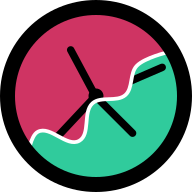
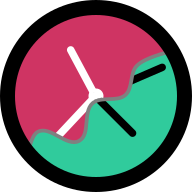
Updated to V1.3
- You can now click on a time to toggle between the localised version and the original text.
- Support for DST agnostic PT/ET was added (This will default to Standard or Daylight depending on DST)
- Support for abbreviated with additional fullstops (a.m. etc)
- Small change to the logo

Changed region(s): [[0.1562, 0.2188, 0.875, 0.75]]

diff --git a/localisetimes.js b/localisetimes.js
@@ -1,6 +1,6 @@
 "use strict";
 //PHP spat these timezone abbreviations out, and their offsets - There could be some missing
-const tzaolObj = {"GMT":0,"EAT":180,"CET":60,"WAT":60,"CAT":120,"EET":120,"WEST":60,"WET":0,"CEST":120,"SAST":120,"HDT":-540,"HST":-600,"AKDT":-480,"AKST":-540,"AST":-240,"EST":-300,"CDT":-300,"CST":-360,"MDT":-360,"MST":-420,"PDT":-420,"PST":-480,"EDT":-240,"ADT":-180,"NDT":-90,"NST":-150,"NZST":720,"NZDT":780,"EEST":180,"HKT":480,"WIB":420,"WIT":540,"IDT":180,"IST":120,"PKT":300,"WITA":480,"KST":510,"JST":540,"ACST":570,"ACDT":630,"AEST":600,"AEDT":660,"AWST":480,"BST":60,"MSK":180,"SST":-660,"UTC":0};
+const tzaolObj = {"GMT":0,"EAT":180,"CET":60,"WAT":60,"CAT":120,"EET":120,"WEST":60,"WET":0,"CEST":120,"SAST":120,"HDT":-540,"HST":-600,"AKDT":-480,"AKST":-540,"AST":-240,"EST":-300,"CDT":-300,"CST":-360,"MDT":-360,"MST":-420,"PDT":-420,"PST":-480,"EDT":-240,"ADT":-180,"NDT":-90,"NST":-150,"NZST":720,"NZDT":780,"EEST":180,"HKT":480,"WIB":420,"WIT":540,"IDT":180,"IST":120,"PKT":300,"WITA":480,"KST":510,"JST":540,"ACST":570,"ACDT":630,"AEST":600,"AEDT":660,"AWST":480,"BST":60,"MSK":180,"SST":-660,"UTC":0,"PT":0,"ET":0};
 const tzaolStr = Object.keys(tzaolObj).join("|");
 
 function lookForTimes(node = document.body) {
@@ -27,11 +27,15 @@ function lookForTimes(node = document.body) {
 
 				//Create a span to hold this converted time
 				let tmpTime = document.createElement("span");
+				tmpTime.style.cursor = "pointer"; //Indicate that it's interactive
 				tmpTime.style.borderBottom = "1px dotted currentColor"; //Modest styling that should fit in with any content
 				tmpTime.textContent = thisTime[0]; //Our converted time
 				//Let people mouse over the converted time to see what was actually written
 				tmpTime.setAttribute("title", 'Converted to your local time from "' + thisTime[1] + '"');
+				tmpTime.setAttribute("data-localised", thisTime[0]); //Used when toggling
+				tmpTime.setAttribute("data-original", thisTime[1]); //Used when toggling
 				tmpFrag.appendChild(tmpTime);
+				tmpTime.addEventListener("click", toggleTime);
 
 				//Do we have any more times to worry about?
 				if (timeInfo[t + 1]) {
@@ -50,7 +54,45 @@ function lookForTimes(node = document.body) {
 		}
 	}
 }
+
+function toggleTime() {
+	//Change the displayed time to and from the localised and original time
+	if (!this || !this.hasAttribute("data-original") || !this.hasAttribute("data-localised")) {
+		return;
+	}
+	//Which state are we in?
+	if (this.getAttribute("data-original") == this.textContent) {
+		this.textContent = this.getAttribute("data-localised");
+		this.setAttribute("title", 'Converted to your local time from "' + this.getAttribute("data-original") + '"');
+	} else {
+		this.textContent = this.getAttribute("data-original");
+		this.setAttribute("title", 'Converted to your local time this is "' + this.getAttribute("data-localised") + '"');
+	}
+}
 function init() {
+	//Work out the DST dates for the USA as part
+	// of special casing for DST agnostic PT/ET
+	//So first we need to get those dates (We could hard code them)
+	const thisYear = new Date().getUTCFullYear();
+	let tmpDate = new Date(Date.UTC(thisYear, 2, 0));
+	//Work out the day
+	let tmpDay = ((6 - tmpDate.getDay()) + 7) % 7;
+	//2am on the second Sunday in March
+	const toDST = Date.UTC(thisYear, 2, tmpDay, 2);
+	//End of DST
+	tmpDate = new Date(Date.UTC(thisYear, 10, 0));
+	//Work out the day
+	tmpDay = (6 - tmpDate.getDay()) % 7;
+	//2am on the 1st Sunday in November
+	const fromDST = Date.UTC(thisYear, 10, tmpDay, 2);
+	//
+	const tmpNow = Date.now();
+	const dstAmerica = tmpNow >= toDST && tmpNow <= fromDST;
+	//Now we need to fill in the correct offset for PT/ET
+	tzaolObj["PT"] = dstAmerica ? tzaolObj["PDT"] : tzaolObj["PST"];
+	tzaolObj["ET"] = dstAmerica ? tzaolObj["EDT"] : tzaolObj["EST"];
+	//
+
 	//Give the page a once over now it has loaded
 	lookForTimes();
 
@@ -109,8 +151,10 @@ function spotTime(str) {
 	NN:NN APM TZ
 	Also the above with an offset at the end like: +/- X
 	*/
+
+	//(?:a|p)\.?m\.? could be written as a\.?m\.?|p\.?m\.?
 	
-	let timeRegex = new RegExp('\\b([0-2]*[0-9])(:[0-5][0-9])?(?: ?(am|pm))?(?: ?(' + tzaolStr + '))( ?(?:\\+|-) ?[0-9]{1,2})?\\b', 'gi');
+	let timeRegex = new RegExp('\\b([0-2]*[0-9])(:[0-5][0-9])?(?: ?((?:a|p)\.?m\.?))?(?: ?(' + tzaolStr + '))( ?(?:\\+|-) ?[0-9]{1,2})?\\b', 'gi');
 	let matches = str.matchAll(timeRegex);
 
 	let timeInfo = [];
